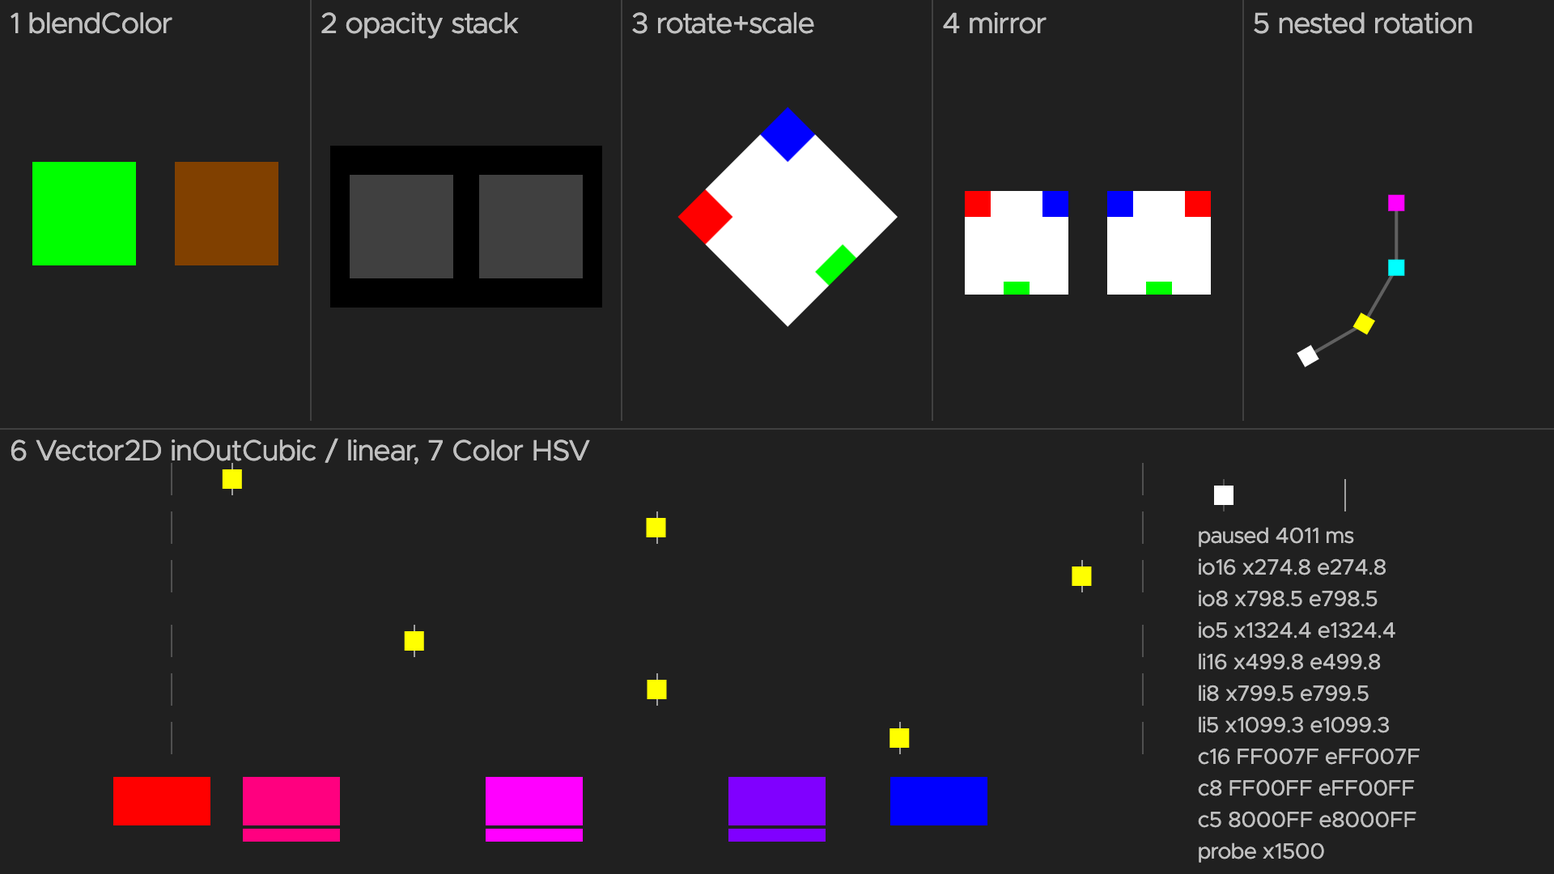
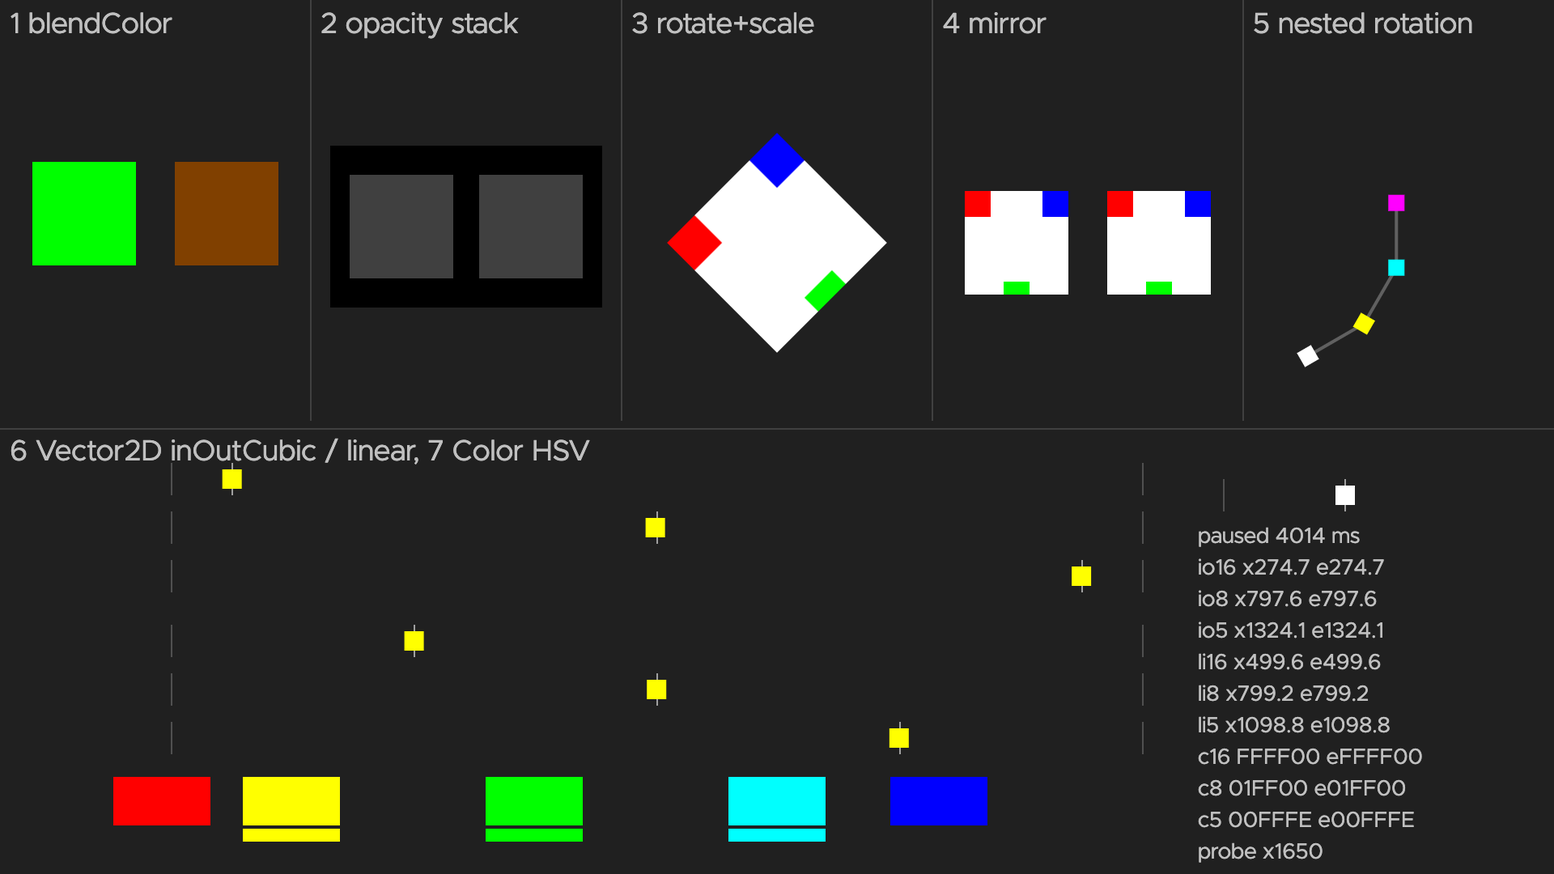
Fidelity: judge cells 4 and 7 by the device rules, re-run the patched simulator
measure.py and FidelityScene's expected strip now use the 4850X rules:
scale -1 at rotation 0 draws unmirrored, and red -> blue passes yellow,
green, cyan. The patched simulator and the device agree on every cell
(within 3 px and 1 colour level); docs/fidelity README records the
results and marks F1, F3, F4, F5 as patched in the preview.

diff --git a/tools/fidelity/measure.py b/tools/fidelity/measure.py
@@ -118,8 +118,9 @@ def main() -> None:
         pos_row(cap, "3 rotate+scale blue corner", (770, 60, 1150, 520), blue, (960, 300 - 72 * 2 * r45)),
         pos_row(cap, "3 rotate+scale green bar", (770, 60, 1150, 520), green, (960 + 84 * r45, 300 + 84 * r45)),
         pos_row(cap, "4 reference red", (1160, 200, 1340, 400), red, (1208, 252)),
-        pos_row(cap, "4 mirror red", (1350, 200, 1530, 400), red, (1480, 252)),
-        pos_row(cap, "4 mirror blue", (1350, 200, 1530, 400), blue, (1384, 252)),
+        # Device rule (F4): with rotation 0 the sign of scale.x is ignored, so no mirror.
+        pos_row(cap, "4 scale -1 red (unmirrored)", (1350, 200, 1530, 400), red, (1384, 252)),
+        pos_row(cap, "4 scale -1 blue (unmirrored)", (1350, 200, 1530, 400), blue, (1480, 252)),
         pos_row(cap, "5 pivot A (white)", (1540, 100, 1920, 520), white, (1616, 440)),
         pos_row(cap, "5 group B origin (yellow)", (1540, 100, 1920, 520), yellow, (1616 + 80 * math.cos(math.pi / 6), 440 - 80 * math.sin(math.pi / 6))),
         pos_row(cap, "5 group C origin (cyan)", (1540, 100, 1920, 520), cyan, (1616 + 80 * (math.cos(math.pi / 6) + math.cos(math.pi / 3)), 440 - 80 * (math.sin(math.pi / 6) + math.sin(math.pi / 3)))),
@@ -132,10 +133,11 @@ def main() -> None:
     lanes = [("io16", 580, io(0.25)), ("io8", 640, io(0.5)), ("io5", 700, io(0.75)), ("li16", 780, 0.25), ("li8", 840, 0.5), ("li5", 900, 0.75)]
     for name, y, f in lanes:
         rows.append(pos_row(cap, f"6 lane {name} (nominal t=4 s)", (150, y - 2, 1450, y + 26), yellow, (200 + 1200 * f + 12, y + 12)))
-    hsv = [(255, 0, 128), (255, 0, 255), (128, 0, 255)]
-    rgb = ["0xBF0040", "0x800080", "0x4000BF"]
+    # Device rule (F5): hue lerped 0 -> 240 with no wrap: yellow, green, cyan.
+    hsv = [(255, 255, 0), (0, 255, 0), (0, 255, 255)]
+    short = ["0xFF0080", "0xFF00FF", "0x8000FF"]
     for i, (name, x) in enumerate([("c16 f=0.25", 300), ("c8 f=0.5", 600), ("c5 f=0.75", 900)]):
-        rows.append(color_row(cap, f"7 swatch {name}", (x + 60, 990), hsv[i], f" (HSV; RGB-lerp would be {rgb[i]})"))
+        rows.append(color_row(cap, f"7 swatch {name}", (x + 60, 990), hsv[i], f" (HSV no wrap; shortest hue path would be {short[i]})"))
     probe = cap.centroid((1450, 596, 1900, 628), white)
     rows.append(
         f"| fraction probe (unscored) | position | x 1662 if direct fraction drives, 1512 if ignored | "

diff --git a/docs/fidelity/README.md b/docs/fidelity/README.md
@@ -8,7 +8,7 @@
 
 | File | What |
 |---|---|
-| `simulator.png` | Playwright capture of `?scene=FidelityScene` (brs-engine 2.6.2 + brs-scenegraph 0.6.2), taken by `make fidelity-sim` |
+| `simulator.png` | Playwright capture of `?scene=FidelityScene` (brs-engine 2.6.2 + brs-scenegraph 0.6.2 with the `preview/vite.config.ts` device patches), taken by `make fidelity-sim` (`PW_PORT=<port>` if 8139 is busy) |
 | `simulator-console.txt` | the scene's `FIDELITY` read-back lines in the simulator |
 | `simulator-measure.md` | `measure.py` output for `simulator.png` |
 | `device.jpg`, `device-console.txt`, `device-measure.md` | `make fidelity-device` on the Primary 4850X (OS 15.3.4), 2026-11-04: `plugin_inspect` screenshot, console read-back, `measure.py` output |
@@ -32,13 +32,13 @@ Row 1 (y 0-520) is static, five 384 px cells. Row 2 (y 530-1080) is animated.
 
 ## Determinism
 
-A device cannot use the preview's `?freeze` shim, and a bare interpolator does not move in brs-scenegraph 0.6.2: it only interpolates inside `Animation.updateAnimation`. The probe confirms this, since the simulator leaves it at x 1500. Holding interpolators at fixed fractions is therefore not testable in the simulator.
+A device cannot use the preview's `?freeze` shim. Unpatched brs-scenegraph 0.6.2 only interpolates inside `Animation.updateAnimation`, so a bare interpolator did not move (probe x 1500). The device does move it (F3), and the preview now emulates that, so the probe sits at x 1650 in both. The scene still uses real Animations for the scored cells.
 
 The scene runs real Animations and pauses them all on a Timer at **4 s**. Durations are 4x, 2x and 4/3x the pause, so the nominal linear fractions are 0.25, 0.5 and 0.75. A frame of pause jitter moves a marker at most about 2.5 px, because the travel is slow (1200 px over 16, 8 or 5.3 s).
 
 To remove the jitter from the verdict, the scene reads back each interpolator's `fraction` after the pause. It judges every position against the keyValue lerp at that fraction, and every inOutCubic lane against `inOutCubic(fraction of its linear partner)`. It prints `FIDELITY ...` lines on the console every 3 s (telnet 8087 on the device) and shows a summary in the on-screen report Label, so a TV photo documents itself.
 
-Capture the verdict run without `?freeze`. The scene pauses its own Animations at 4 s, and the freeze shim only snaps Animations that are still running, so `?freeze` at 4 s or later snaps nothing. A `?freeze` below 4 s snaps every cell to that time; the color swatches then match brs-scenegraph's HSV interpolation exactly (the shim's color math is in `source/preview_color.brs`), but the strips under them and the `FIDELITY` lines still judge the 4 s pause, so they no longer line up. At `?freeze=2` the swatches read 0xFF0040 / 0xFF0080 / 0xFF00BF (f = 0.125 / 0.25 / 0.375), see `freeze-hsv-swatches.png`.
+Capture the verdict run without `?freeze`. The scene pauses its own Animations at 4 s, and the freeze shim only snaps Animations that are still running, so `?freeze` at 4 s or later snaps nothing. A `?freeze` below 4 s snaps every cell to that time; the color swatches then match the patched preview's HSV interpolation exactly (the shim's color math is in `source/preview_color.brs`), but the strips under them and the `FIDELITY` lines still judge the 4 s pause, so they no longer line up. At `?freeze=2` the swatches now read 0xFF8000 / 0xFFFF00 / 0x80FF00 (f = 0.125 / 0.25 / 0.375, device hue rule). `freeze-hsv-swatches.png` predates F5 and shows the old shortest-path colours (0xFF0040 / 0xFF0080 / 0xFF00BF).
 
 ## Expected values
 
@@ -52,41 +52,39 @@ Rotation is CCW-positive on screen (y down): a point (x, y) relative to the cent
 | 2 | poster 0.25 reference | 0x404040 |
 | 3 | red / blue / green centers | (858.2, 300.0) / (960.0, 198.2) / (1019.4, 359.4). Poster center stays at (960,300) |
 | 4 | reference red | (1208, 252) |
-| 4 | mirrored red / blue | (1480, 252) / (1384, 252), so the colors swap sides |
+| 4 | scale -1 red / blue | (1384, 252) / (1480, 252): the device ignores the sign at rotation 0 (F4), so the copy is unmirrored. A true mirror would put red at 1480 and blue at 1384 |
 | 5 | A / B / C / tip | (1616, 440) / (1685.3, 400.0) / (1725.3, 330.7) / (1725.3, 250.7) |
 | 6 | inOutCubic at t = 0.25/0.5/0.75 | fraction 0.0625/0.5/0.9375, marker center x 287/812/1337 |
 | 6 | linear at t = 0.25/0.5/0.75 | fraction 0.25/0.5/0.75, marker center x 512/812/1112 |
-| 7 | color at f = 0.25/0.5/0.75 | HSV shortest hue path (360 -> 240): 0xFF0080 / 0xFF00FF / 0x8000FF. An RGB lerp would give 0xBF0040 / 0x800080 / 0x4000BF |
+| 7 | color at f = 0.25/0.5/0.75 | device rule, hue lerped 0 -> 240 with no wrap (F5): 0xFFFF00 / 0x00FF00 / 0x00FFFF. The shortest hue path (360 -> 240) would give 0xFF0080 / 0xFF00FF / 0x8000FF, an RGB lerp 0xBF0040 / 0x800080 / 0x4000BF |
 | probe | bare interpolator, fraction 0.5 | x center 1662 if a direct `fraction` write drives the target, 1512 if it is ignored |
 
 ## Results
 
-Positions are measured centroids at nominal t = 4 s from `simulator-measure.md`. Error is the distance to the expected value.
+Positions are measured centroids at nominal t = 4 s from `simulator-measure.md` and `device-measure.md`. Error is the distance to the expected value. Since 2026-11-04 the expected values for cells 4 and 7 are the device rules (F4, F5), and the simulator column is the preview with the device patches in `preview/vite.config.ts`. The unpatched simulator measured cell 3 at 34.5 px off (F1), cell 4 mirrored (red 1480, blue 1384), cell 7 at 0xFF007F / 0xFF00FE / 0x8000FF and the probe at x 1512.
 
-| # | Primitive | Simulator measured | Simulator verdict | Device measured | Device verdict |
+| # | Primitive | Simulator measured (patched) | Simulator verdict | Device measured | Device verdict |
 |---|---|---|---|---|---|
 | 1 | blendColor multiply | 0x00FF00 and 0x804000, exact | PASS | 0x00FF01 and 0x804000 | PASS |
 | 2 | stacked opacity | 0x404040 and 0x404040, exact | PASS | 0x3F3F3F and 0x3F3F3F | PASS |
-| 3 | rotation + scale about center | red (871.0, 268.0), blue (973.0, 166.0), green (1032.5, 327.5): all 34.5 px (1.80% W) off, the same shift (+13, -32) | PASS (marginal, simulator bug, see F1) | red (858.5, 300.0), blue (960.0, 198.2), green (1019.3, 359.4), within 0.3 px | PASS (exact, so F1 is a simulator-only bug) |
-| 4 | negative scale.x | red (1480, 252), blue (1384, 252), exact | PASS | red (1384, 252), blue (1480, 252): drawn unmirrored, 96 px (5% W) off | **FAIL (F4)** |
+| 3 | rotation + scale about center | red (858.0, 300.0), blue (960.0, 198.0), green (1019.5, 359.5), within 0.2 px | PASS (F1 patched) | red (858.5, 300.0), blue (960.0, 198.2), green (1019.3, 359.4), within 0.3 px | PASS |
+| 4 | negative scale.x | red (1384, 252), blue (1480, 252): unmirrored, exact | PASS (F4 patched) | red (1384, 252), blue (1480, 252): unmirrored, within 0.1 px | PASS (device rule) |
 | 5 | nested rotation | within 0.2 px at every joint | PASS | within 0.4 px at every joint | PASS |
-| 6 | Vector2D + inOutCubic / linear | read back at 4011 ms: io fractions 0.06235/0.49876/0.93703 vs inOutCubic(linear partner) 0.06235/0.49876/0.93704; x equals the keyValue lerp exactly; nominal-time error 0.0 to 1.5 px | PASS | read back at 4012 ms: io fractions 0.06288/0.50299/0.93865 equal inOutCubic of their linear partners; x equals the keyValue lerp; nominal-time error 0.0 to 3.0 px | PASS |
-| 7 | ColorFieldInterpolator | 0xFF007F / 0xFF00FE / 0x8000FF at f 0.250/0.500/0.749, matching HSV (diff 1 or less) | PASS | 0xFEFF01 / 0x00FF01 / 0x00FEFF at f 0.251/0.501/0.752: yellow, green, cyan | **FAIL (F5)** |
-| probe | bare interpolator | x 1512: brs-scenegraph ignores a direct fraction write | info | x 1662: a direct fraction write drives the target | info (F3 answered) |
+| 6 | Vector2D + inOutCubic / linear | read back at 4014 ms: io fractions 0.06224/0.49803/0.93676 equal inOutCubic of their linear partners (0.06225/0.49803/0.93676); x equals the keyValue lerp; nominal-time error 0.5 to 2.5 px | PASS | read back at 4012 ms: io fractions 0.06288/0.50299/0.93865 equal inOutCubic of their linear partners; x equals the keyValue lerp; nominal-time error 0.0 to 3.0 px | PASS |
+| 7 | ColorFieldInterpolator | 0xFFFF00 / 0x01FF00 / 0x00FFFE at f 0.250/0.499/0.749: yellow, green, cyan (diff 1 or less) | PASS (F5 patched) | 0xFEFF01 / 0x00FF01 / 0x00FEFF at f 0.251/0.501/0.752: yellow, green, cyan (diff 1 or less) | PASS (device rule) |
+| probe | bare interpolator | x 1662: a direct fraction write drives the target | info (F3 patched) | x 1662: a direct fraction write drives the target | info |
 
-**Simulator overall: every primitive renders and every probe is within the pass rule.** Cell 3 passes only marginally because of F1.
-
-**Device overall (4850X, OS 15.3.4): every primitive renders, and cells 1, 2, 3, 5 and 6 pass within 3 px. Cells 4 and 7 fail (F4, F5)**, so per the pass rule the fallback decision is Paul's.
+**Patched simulator and device agree on every cell**, within 3 px and 1 colour level. Judged by the device rules, the device passes every cell too. The device behaviours behind cells 4 and 7 (no mirror through scale, long-way hue) remain constraints on the channel code, not preview bugs.
 
 ## Findings
 
-- **F1: brs-scenegraph 0.6.2 rotates scaled Posters about the wrong point.** `getTranslation` shifts the translation by `scaleRotateCenter * (scale - 1)`, then `doDrawRotatedBitmap` rotates the scaled bitmap about the *unscaled* center. With rotation and scale combined, the Poster drifts by `R(c * (s - 1)) - c * (s - 1)`: 34.5 px here (c = 64, s = 1.5, 45 deg). Rotation alone, scale alone and mirroring are exact. The error grows with the center offset and the scale, so large scaled and rotated Posters can exceed the 2% rule in the preview. If the device matches the analytic value, add a `simPatches` entry in `preview/vite.config.ts`.
+- **F1: brs-scenegraph 0.6.2 rotates scaled Posters about the wrong point.** `getTranslation` shifts the translation by `scaleRotateCenter * (scale - 1)`, then `doDrawRotatedBitmap` rotates the scaled bitmap about the *unscaled* center. With rotation and scale combined, the Poster drifts by `R(c * (s - 1)) - c * (s - 1)`: 34.5 px here (c = 64, s = 1.5, 45 deg). Rotation alone, scale alone and mirroring are exact. The error grows with the center offset and the scale, so large scaled and rotated Posters can exceed the 2% rule in the preview. The device matches the analytic value. **Preview patched (2026-11-04):** the `drawImage` entry in `preview/vite.config.ts` `simPatches` draws the bitmap from `O = parentOrigin + R(P)(T + c - R(theta)(S c))`, so cell 3 now measures within 0.2 px.
 - **F2 (fixed 2026-11-04): the `?freeze` shim interpolated colors in RGB** (`previewApplyInterpolator` in `source/preview.brs`), but the Roku `ColorFieldInterpolator` doc and brs-scenegraph both use HSV. The shim now calls `previewLerpColorHsv` (`source/preview_color.brs`), a line-for-line port of brs-scenegraph's `interpolateColor`, unit-tested against values from brs-scenegraph's own code. `freeze-hsv-swatches.png` shows `?freeze=2` before (RGB: 0xDF001F / 0xBF003F / 0x9F005F) and after (HSV: 0xFF0040 / 0xFF0080 / 0xFF00BF).
 - **F3: direct `fraction` writes are a no-op in brs-scenegraph.** Whether they drive the target on OS 15.3.4 is unknown until the device run. The Roku doc lists `fraction` as writable but only describes the Animation setting it.
 
-- **F3 answered:** on the device a direct `fraction` write moves the target (probe x 1662); brs-scenegraph ignores it (x 1512). Code that relies on either behaviour diverges between preview and TV.
-- **F4: the device has no horizontal mirror through `scale`.** `make device-check SCENE=MirrorProbeScene` (`docs/perf/raw/check-MirrorProbeScene-20261104-122455-device.jpg`) tried every way. On a Poster or a Group with rotation 0, a negative `scale.x` is ignored and the bitmap draws like the reference. That holds when set in XML, from BrightScript, through a Vector2DFieldInterpolator, and at -0.999. With any rotation set (0.001 rad, 2 pi), the same negative `scale.x` renders as a 180-degree rotation (upside down, shifted up by about one height), not a mirror. On the device, BrainDemoScene's left-facing rigs therefore drew the body unflipped and the rotating tail upside down at the head. The simulator mirrors correctly in every case. **Fallback (recommended):** pre-mirrored left-facing art per species, and turns that squash `scale.x` to 0, swap art and expand, never using a negative scale. Fish bitmaps are small (`docs/perf.md`), so the extra textures cost about 0.2 to 0.6 MB per species. **Adopted 2026-11-04:** `tools/art/rig.py` writes a `mirrored` layer set per rig and `components/Fish` swaps to it at the narrowest frame of the turn.
-- **F5: the device's `ColorFieldInterpolator` lerps hue the long way.** Red to blue passes yellow (f 0.25), green (0.5) and cyan (0.75), so hue goes 0 to 240 degrees with no shortest-path wrap. brs-scenegraph wraps to 360 and passes magenta. Colour tweens must use keys whose hues are close, or add intermediate keys so the path is the same either way; the preview's HSV lerp (brs-sg and `source/preview_color.brs`) should be patched to the device rule.
+- **F3 answered:** on the device a direct `fraction` write moves the target (probe x 1662); brs-scenegraph ignores it (x 1512). **Preview patched:** the Interpolator `setValue` patch interpolates and writes the target when `fraction` is set on an interpolator whose parent is not an Animation (target found with Animation's own lookup from the interpolator's parent), so the preview probe is now x 1662 too.
+- **F4: the device has no horizontal mirror through `scale`.** `make device-check SCENE=MirrorProbeScene` (`docs/perf/raw/check-MirrorProbeScene-20261104-122455-device.jpg`) tried every way. On a Poster or a Group with rotation 0, a negative `scale.x` is ignored and the bitmap draws like the reference. That holds when set in XML, from BrightScript, through a Vector2DFieldInterpolator, and at -0.999. With any rotation set (0.001 rad, 2 pi), the same negative `scale.x` renders as a 180-degree rotation (upside down, shifted up by about one height), not a mirror. On the device, BrainDemoScene's left-facing rigs therefore drew the body unflipped and the rotating tail upside down at the head. Unpatched brs-scenegraph mirrors in every case. **Fallback (recommended):** pre-mirrored left-facing art per species, and turns that squash `scale.x` to 0, swap art and expand, never using a negative scale. Fish bitmaps are small (`docs/perf.md`), so the extra textures cost about 0.2 to 0.6 MB per species. **Preview patched (2026-11-04)** to the device rule, as one model that fits all eight MirrorProbe cells: with accumulated rotation 0, `|scale|` is used everywhere (origin offset and draw); with rotation non-zero and a reflection (Poster `scale.x * scale.y < 0`, XOR the same on its immediate parent Group), the origin is computed with the signed scale and the bitmap drawn with `-|scale|`, a 180-degree turn. With `c` at the center that is upside down and one height up; whether the device shifts by `2 c.y` or by the height cannot be told apart from this probe (the model uses `2 c.y`). `?scene=MirrorProbeScene` runs in the preview (served from `tools/devicecheck/components`, never in the device build); tail centroids and blue bounding boxes match the device screenshot within 2 px in all eight cells. Unmeasured and only assumed: both axes negative, a negative-scale Group that is itself rotated, reflecting Groups more than one level above the Poster. **Adopted 2026-11-04:** `tools/art/rig.py` writes a `mirrored` layer set per rig and `components/Fish` swaps to it at the narrowest frame of the turn.
+- **F5: the device's `ColorFieldInterpolator` lerps hue the long way.** Red to blue passes yellow (f 0.25), green (0.5) and cyan (0.75), so hue goes 0 to 240 degrees with no shortest-path wrap. brs-scenegraph wraps to 360 and passes magenta. Colour tweens must use keys whose hues are close, or add intermediate keys so the path is the same either way. **Preview patched (2026-11-04):** brs-sg's `interpolateColor` (served patch) and `previewLerpColorHsv` (`source/preview_color.brs`, the `?freeze` shim) lerp hue as `h1 + (h2 - h1) f` with no wrap; saturation, value and alpha are unchanged. Only 0 -> 240 is measured. That any gap over 180 degrees also goes the long way (300 -> 60 passes 180, cyan) is an assumption, pinned in `tests/unit/preview_color_test.brs`.
 
 ## Device run
 

diff --git a/docs/fidelity/simulator-measure.md b/docs/fidelity/simulator-measure.md
@@ -4,23 +4,23 @@
 | 1 blendColor grey x 0xFF8000 | color | 0x804000 | 0x804000 | max channel diff 0 | PASS |
 | 2 group 0.5 x poster 0.5 | color | 0x404040 | 0x404040 | max channel diff 0 | PASS |
 | 2 reference poster 0.25 | color | 0x404040 | 0x404040 | max channel diff 0 | PASS |
-| 3 rotate+scale red corner | position | (858.2, 300.0) | (871.0, 268.0) | 34.5 px (1.80% W) | PASS |
-| 3 rotate+scale blue corner | position | (960.0, 198.2) | (973.0, 166.0) | 34.7 px (1.81% W) | PASS |
-| 3 rotate+scale green bar | position | (1019.4, 359.4) | (1032.5, 327.5) | 34.5 px (1.80% W) | PASS |
+| 3 rotate+scale red corner | position | (858.2, 300.0) | (858.0, 300.0) | 0.2 px (0.01% W) | PASS |
+| 3 rotate+scale blue corner | position | (960.0, 198.2) | (960.0, 198.0) | 0.2 px (0.01% W) | PASS |
+| 3 rotate+scale green bar | position | (1019.4, 359.4) | (1019.5, 359.5) | 0.1 px (0.01% W) | PASS |
 | 4 reference red | position | (1208.0, 252.0) | (1208.0, 252.0) | 0.0 px (0.00% W) | PASS |
-| 4 mirror red | position | (1480.0, 252.0) | (1480.0, 252.0) | 0.0 px (0.00% W) | PASS |
-| 4 mirror blue | position | (1384.0, 252.0) | (1384.0, 252.0) | 0.0 px (0.00% W) | PASS |
+| 4 scale -1 red (unmirrored) | position | (1384.0, 252.0) | (1384.0, 252.0) | 0.0 px (0.00% W) | PASS |
+| 4 scale -1 blue (unmirrored) | position | (1480.0, 252.0) | (1480.0, 252.0) | 0.0 px (0.00% W) | PASS |
 | 5 pivot A (white) | position | (1616.0, 440.0) | (1616.0, 440.0) | 0.0 px (0.00% W) | PASS |
 | 5 group B origin (yellow) | position | (1685.3, 400.0) | (1685.3, 400.0) | 0.0 px (0.00% W) | PASS |
 | 5 group C origin (cyan) | position | (1725.3, 330.7) | (1725.4, 330.6) | 0.2 px (0.01% W) | PASS |
 | 5 arm tip (magenta) | position | (1725.3, 250.7) | (1725.5, 250.6) | 0.2 px (0.01% W) | PASS |
-| 6 lane io16 (nominal t=4 s) | position | (287.0, 592.0) | (287.0, 592.0) | 0.0 px (0.00% W) | PASS |
-| 6 lane io8 (nominal t=4 s) | position | (812.0, 652.0) | (810.5, 652.0) | 1.5 px (0.08% W) | PASS |
-| 6 lane io5 (nominal t=4 s) | position | (1337.0, 712.0) | (1336.5, 712.0) | 0.5 px (0.03% W) | PASS |
+| 6 lane io16 (nominal t=4 s) | position | (287.0, 592.0) | (286.5, 592.0) | 0.5 px (0.03% W) | PASS |
+| 6 lane io8 (nominal t=4 s) | position | (812.0, 652.0) | (809.5, 652.0) | 2.5 px (0.13% W) | PASS |
+| 6 lane io5 (nominal t=4 s) | position | (1337.0, 712.0) | (1336.0, 712.0) | 1.0 px (0.05% W) | PASS |
 | 6 lane li16 (nominal t=4 s) | position | (512.0, 792.0) | (511.5, 792.0) | 0.5 px (0.03% W) | PASS |
-| 6 lane li8 (nominal t=4 s) | position | (812.0, 852.0) | (811.5, 852.0) | 0.5 px (0.03% W) | PASS |
-| 6 lane li5 (nominal t=4 s) | position | (1112.0, 912.0) | (1111.5, 912.0) | 0.5 px (0.03% W) | PASS |
-| 7 swatch c16 f=0.25 | color | 0xFF0080 (HSV; RGB-lerp would be 0xBF0040) | 0xFF007F | max channel diff 1 | PASS |
-| 7 swatch c8 f=0.5 | color | 0xFF00FF (HSV; RGB-lerp would be 0x800080) | 0xFF00FF | max channel diff 0 | PASS |
-| 7 swatch c5 f=0.75 | color | 0x8000FF (HSV; RGB-lerp would be 0x4000BF) | 0x8000FF | max channel diff 0 | PASS |
-| fraction probe (unscored) | position | x 1662 if direct fraction drives, 1512 if ignored | x 1512.0 | - | info |
+| 6 lane li8 (nominal t=4 s) | position | (812.0, 852.0) | (811.0, 852.0) | 1.0 px (0.05% W) | PASS |
+| 6 lane li5 (nominal t=4 s) | position | (1112.0, 912.0) | (1111.0, 912.0) | 1.0 px (0.05% W) | PASS |
+| 7 swatch c16 f=0.25 | color | 0xFFFF00 (HSV no wrap; shortest hue path would be 0xFF0080) | 0xFFFF00 | max channel diff 0 | PASS |
+| 7 swatch c8 f=0.5 | color | 0x00FF00 (HSV no wrap; shortest hue path would be 0xFF00FF) | 0x01FF00 | max channel diff 1 | PASS |
+| 7 swatch c5 f=0.75 | color | 0x00FFFF (HSV no wrap; shortest hue path would be 0x8000FF) | 0x00FFFE | max channel diff 1 | PASS |
+| fraction probe (unscored) | position | x 1662 if direct fraction drives, 1512 if ignored | x 1662.0 | - | info |

diff --git a/docs/fidelity/device-measure.md b/docs/fidelity/device-measure.md
@@ -8,8 +8,8 @@
 | 3 rotate+scale blue corner | position | (960.0, 198.2) | (960.0, 198.2) | 0.0 px (0.00% W) | PASS |
 | 3 rotate+scale green bar | position | (1019.4, 359.4) | (1019.3, 359.4) | 0.1 px (0.01% W) | PASS |
 | 4 reference red | position | (1208.0, 252.0) | (1208.0, 251.9) | 0.1 px (0.00% W) | PASS |
-| 4 mirror red | position | (1480.0, 252.0) | (1384.0, 251.9) | 96.0 px (5.00% W) | FAIL |
-| 4 mirror blue | position | (1384.0, 252.0) | (1480.0, 251.9) | 96.0 px (5.00% W) | FAIL |
+| 4 scale -1 red (unmirrored) | position | (1384.0, 252.0) | (1384.0, 251.9) | 0.1 px (0.00% W) | PASS |
+| 4 scale -1 blue (unmirrored) | position | (1480.0, 252.0) | (1480.0, 251.9) | 0.1 px (0.00% W) | PASS |
 | 5 pivot A (white) | position | (1616.0, 440.0) | (1616.0, 440.0) | 0.0 px (0.00% W) | PASS |
 | 5 group B origin (yellow) | position | (1685.3, 400.0) | (1685.3, 400.0) | 0.0 px (0.00% W) | PASS |
 | 5 group C origin (cyan) | position | (1725.3, 330.7) | (1725.0, 331.0) | 0.4 px (0.02% W) | PASS |
@@ -20,7 +20,7 @@
 | 6 lane li16 (nominal t=4 s) | position | (512.0, 792.0) | (512.0, 792.0) | 0.0 px (0.00% W) | PASS |
 | 6 lane li8 (nominal t=4 s) | position | (812.0, 852.0) | (813.0, 852.0) | 1.0 px (0.05% W) | PASS |
 | 6 lane li5 (nominal t=4 s) | position | (1112.0, 912.0) | (1113.0, 912.0) | 1.0 px (0.05% W) | PASS |
-| 7 swatch c16 f=0.25 | color | 0xFF0080 (HSV; RGB-lerp would be 0xBF0040) | 0xFEFF01 | max channel diff 255 | FAIL |
-| 7 swatch c8 f=0.5 | color | 0xFF00FF (HSV; RGB-lerp would be 0x800080) | 0x00FF01 | max channel diff 255 | FAIL |
-| 7 swatch c5 f=0.75 | color | 0x8000FF (HSV; RGB-lerp would be 0x4000BF) | 0x00FEFF | max channel diff 254 | FAIL |
+| 7 swatch c16 f=0.25 | color | 0xFFFF00 (HSV no wrap; shortest hue path would be 0xFF0080) | 0xFEFF01 | max channel diff 1 | PASS |
+| 7 swatch c8 f=0.5 | color | 0x00FF00 (HSV no wrap; shortest hue path would be 0xFF00FF) | 0x00FF01 | max channel diff 1 | PASS |
+| 7 swatch c5 f=0.75 | color | 0x00FFFF (HSV no wrap; shortest hue path would be 0x8000FF) | 0x00FEFF | max channel diff 1 | PASS |
 | fraction probe (unscored) | position | x 1662 if direct fraction drives, 1512 if ignored | x 1662.0 | - | info |
